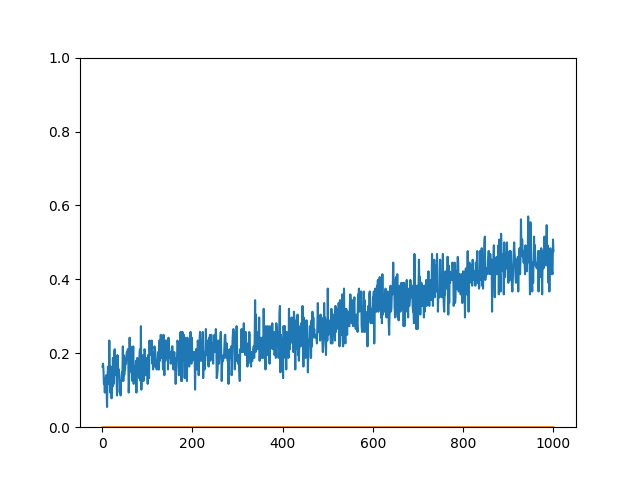
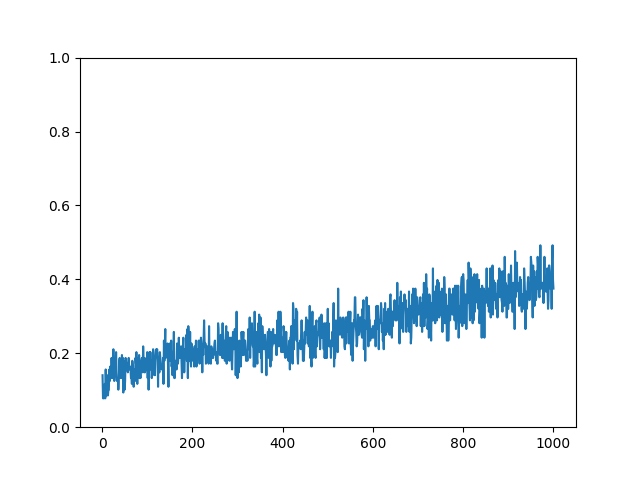
fixed entropy loss

Changed region(s): [[0.1562, 0.4375, 0.875, 0.8438]]

diff --git a/dl_from_scratch/model/mlp.py b/dl_from_scratch/model/mlp.py
@@ -23,9 +23,12 @@ import matplotlib.pyplot as plt
 
 def acc_loss_plot(accuracies, losses):
     x = list(range(1,len(accuracies)+1))
-    plt.ylim(0, 1)
-    plt.plot(x, accuracies,label="Accuracy")
-    plt.plot(x, losses,label="Loss")
+
+    fig, ax1 = plt.subplots()
+    ax1.plot(x, accuracies,label="Accuracy")
+
+    ax2 = ax1.twinx()
+    ax2.plot(x, losses,label="Loss")
     plt.savefig("plot.png")
 
 def logsumexp(x):
@@ -68,12 +71,11 @@ def d_softmax(x):
     ex = np.exp(x-x.max())
     return ex/np.sum(ex, axis=0)*(1-ex/np.sum(ex, axis=0))
 
-#def cross_entropy_loss(pred, label):
-#    label_oh = (label[:, np.newaxis] == np.arange(10)).astype(int)
-#    pred_oh = (pred[:, np.newaxis] == np.arange(10)).astype(int)
-#    print(np.log(pred_oh))
-#    loss_sample =(np.log(pred_oh) * label_oh).sum(axis=1)
-#    loss = -np.mean(loss_sample)
+def cross_entropy_loss(pred, label):
+    label_oh = (label[:, np.newaxis] == np.arange(10)).astype(int)
+    loss_sample =(np.log(pred) * label_oh).sum(axis=1)
+    loss = -np.mean(loss_sample)
+    return loss
 
 def SGD(l1, l2, d_l1, d_l2, lr=1e-3):
     l1 = l1 - lr*d_l1
@@ -89,8 +91,6 @@ def forward_backward(x, y, l1, l2):
     x_l2 =  l1_out.dot(l2)
     x_out = softmax(x_l2)
 
-    x_loss = (label*x_out).mean(axis=1)
-
     # Backward
     d_sm = d_softmax(x_l2)
     x_out_error = 2*d_sm*(x_out-label)/x_out.shape[0]
@@ -98,7 +98,7 @@ def forward_backward(x, y, l1, l2):
     d_l2_error = ((l2).dot(x_out_error.T)).T*d_sigmoid(x_l1)
     d_l1 = x.T.dot(d_l2_error)
 
-    return x_out, x_loss, d_l1, d_l2
+    return x_out, d_l1, d_l2
 
 def train():
     PATH = "../../data/MNIST/test.hdf5"
@@ -107,7 +107,7 @@ def train():
     l1 = init_layer(784, 128, mode="uniform")
     l2 = init_layer(128, 10, mode="uniform")
 
-    epochs = 1000
+    epochs = 10000
     batch_size = 128
 
     losses = []
@@ -117,13 +117,12 @@ def train():
         sample = np.random.randint(0, x_train.shape[0], size=(batch_size))
         x = x_train[sample].reshape((-1, 28*28))
         y = y_train[sample]
-        x_out, x_loss, d_l1, d_l2 = forward_backward(x, y, l1, l2)
+        x_out , d_l1, d_l2 = forward_backward(x, y, l1, l2)
         l1, l2 = SGD(l1, l2, d_l1, d_l2)
-
 
         pred = np.argmax(x_out,axis=1)
         acc = (pred == y).mean()
-        loss = x_loss.mean()
+        loss = cross_entropy_loss(x_out, y)
 
         losses.append(loss)
         accuracies.append(acc)
